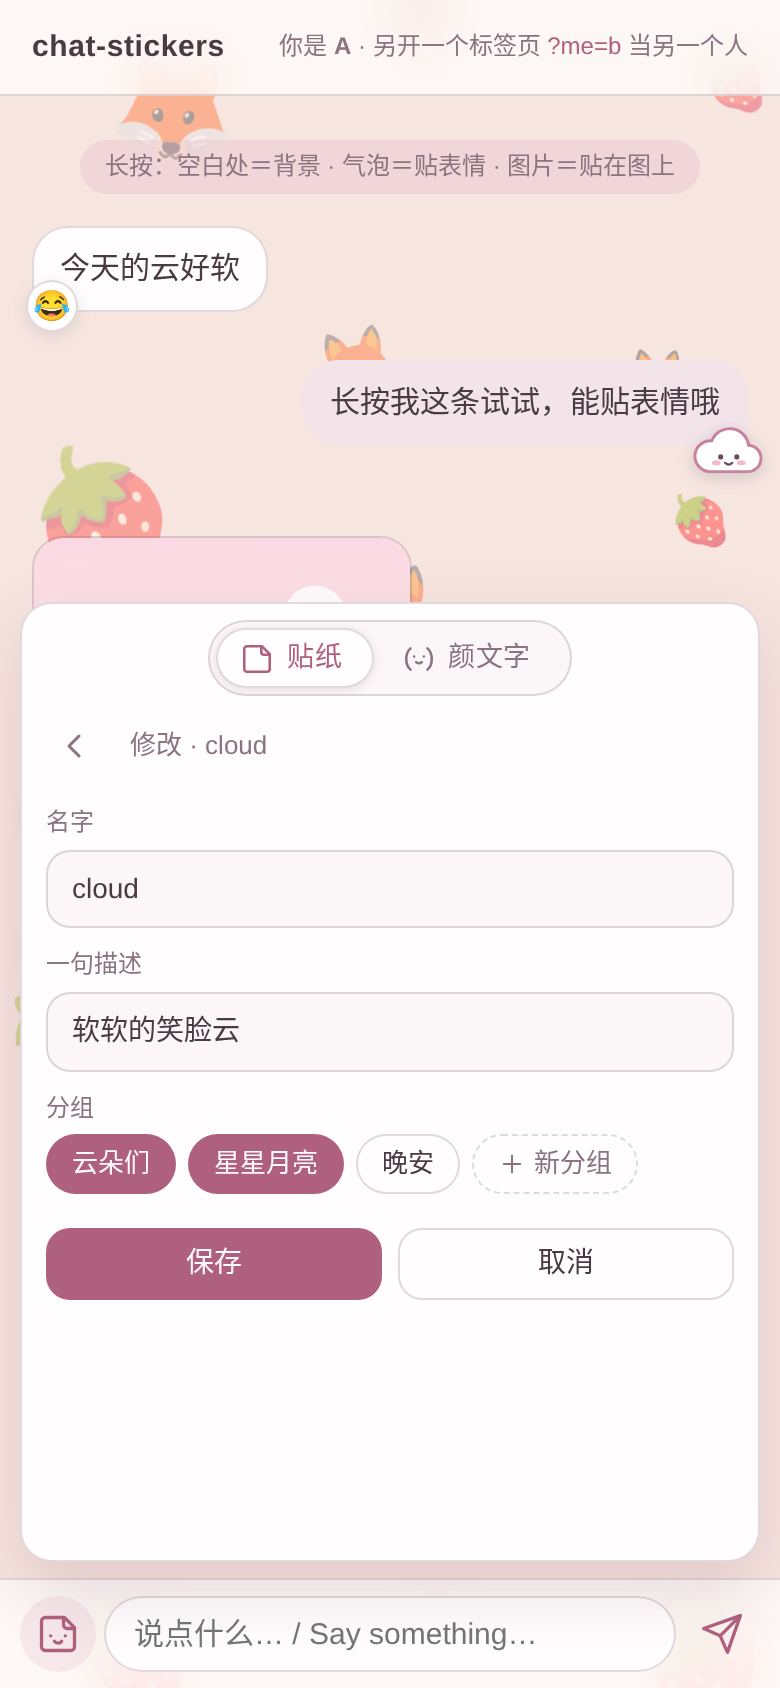
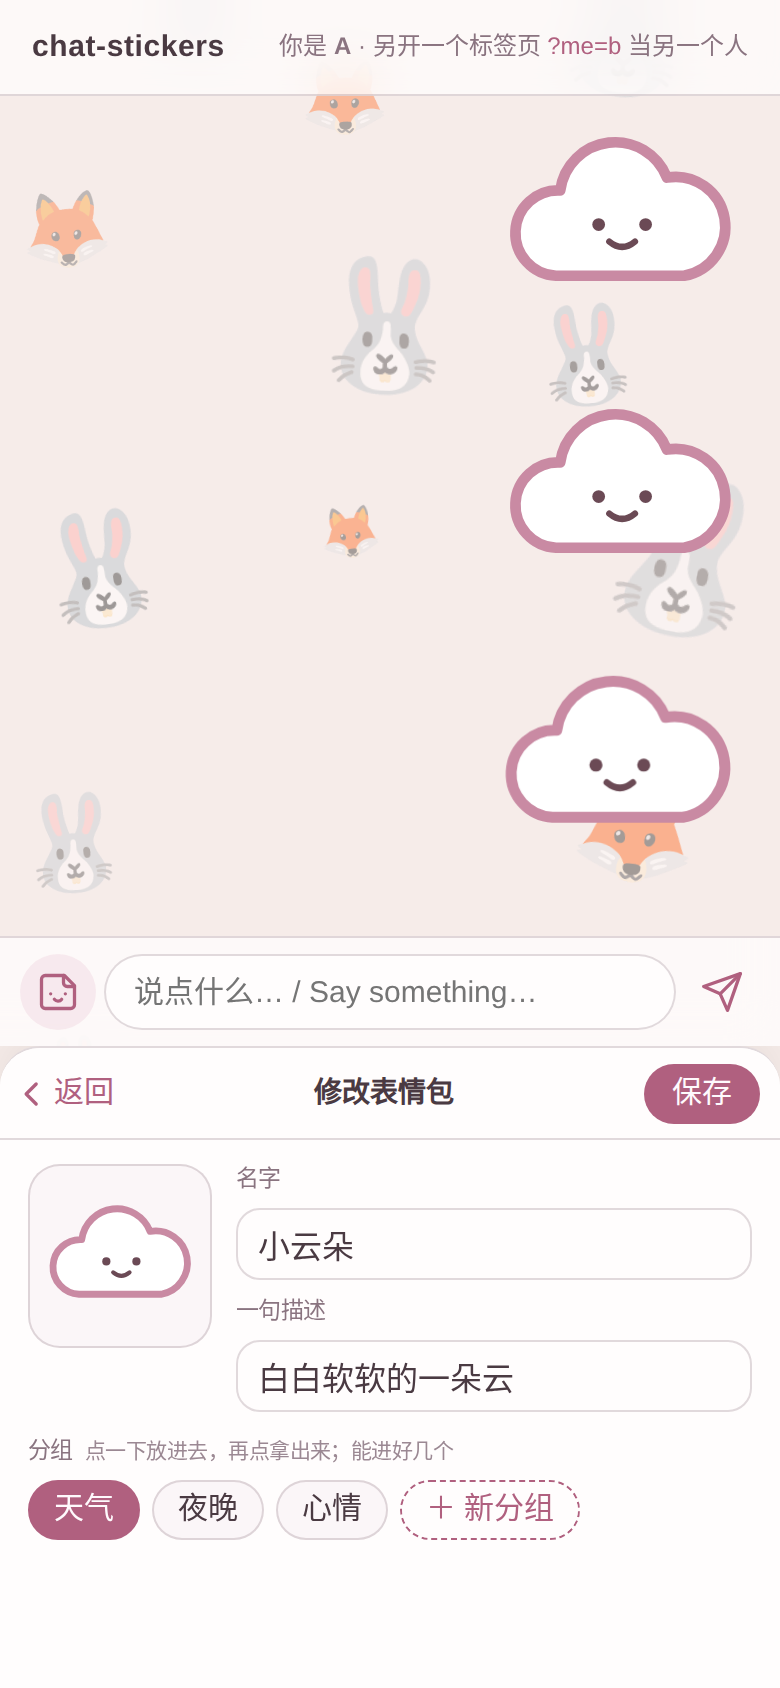
README / docs: 停靠面板和 ×N 刷屏；换截图
- README 中英各加「停靠面板（panel.mode: "deck"）」一节：玩法、选项表、返回值、--cs-deck-h，
  以及「[[sticker:名]]×N：刷屏」的 StickerRender.into 选项；三步接入改用 mode: "deck"
- 说清楚兼容：不写 mode 还是浮动抽屉，后端和 store 不用改；颜文字网页导入暂时只在浮动抽屉里
- docs/shot-stickers（面板 · 连点攒 ×3）、shot-kaomoji、shot-edit 重拍，新增 shot-spam（长按菜单 ＋ 刚刷出来的一串）；
  截图里的贴纸是拍图时临时加进 demo 的线条占位图，不进仓库
- 落地页文案和截图说明跟着改

diff --git a/docs/index.html b/docs/index.html
@@ -4,7 +4,7 @@
 <meta charset="utf-8">
 <meta name="viewport" content="width=device-width, initial-scale=1">
 <title>cute-chat-stickers · 长按哪里，就贴在哪里</title>
-<meta name="description" content="给聊天页加三样「贴」：聊天背景 emoji、长按给气泡贴表情、自己的表情包和颜文字（一个抽屉两个 tab）。零依赖，一个脚本接上就能用。">
+<meta name="description" content="给聊天页加三样「贴」：聊天背景 emoji、长按给气泡贴表情、自己的表情包和颜文字（一块停在输入框下面的面板，连点攒成 ×N 一起发）。零依赖，一个脚本接上就能用。">
 <!-- Replace https://tutooth.com/hello/cute-chat-stickers/ below once the repo name is decided. -->
 <link rel="canonical" href="https://tutooth.com/hello/cute-chat-stickers/">
 <meta property="og:type" content="website">
@@ -59,8 +59,8 @@
 <main>
   <p class="kicker">给聊天页的三样「贴」</p>
   <h1>长按哪里，就贴在哪里</h1>
-  <p class="lede">按在空白处，贴到聊天背景上；按在气泡上，贴到那条消息上；按在图片上，贴到那张图上。再加上一个抽屉两个 tab：你自己的表情包和颜文字。零依赖，一个脚本接上就能用。</p>
-  <p class="en">Long-press where you want it to stick — the background, a bubble, or a picture. Plus one drawer with two tabs: your own stickers and kaomoji. Zero dependencies.</p>
+  <p class="lede">按在空白处，贴到聊天背景上；按在气泡上，贴到那条消息上；按在图片上，贴到那张图上。再加上一块像键盘一样停在输入框下面的面板：你自己的表情包和颜文字，连点同一张攒成 ×N 一起发。零依赖，一个脚本接上就能用。</p>
+  <p class="en">Long-press where you want it to stick — the background, a bubble, or a picture. Plus a panel that docks under the composer like a keyboard: your own stickers and kaomoji, and repeat taps send one sticker ×N. Zero dependencies.</p>
   <div class="cta">
     <a class="btn primary" href="https://github.com/Anko3o/cute-chat-stickers">
       <svg viewBox="0 0 24 24" fill="none" stroke="currentColor" stroke-width="1.8" stroke-linecap="round" stroke-linejoin="round" aria-hidden="true"><path d="M15 22v-4a4.8 4.8 0 0 0-1-3.5c3 0 6-2 6-5.5.08-1.25-.27-2.48-1-3.5.28-1.15.28-2.35 0-3.5 0 0-1 0-3 1.5-2.64-.5-5.36-.5-8 0C6 2 5 2 5 2c-.3 1.15-.3 2.35 0 3.5A5.4 5.4 0 0 0 4 9c0 3.5 3 5.5 6 5.5-.39.49-.68 1.05-.85 1.65S8.93 17.38 9 18v4"/><path d="M9 18c-4.51 2-5-2-7-2"/></svg>
@@ -75,8 +75,8 @@
   <div class="shots">
     <figure><img src="shot-background.png" alt="长按空白处，两人各选一枚 emoji 撒满聊天背景" loading="lazy"><figcaption>长按空白 → 背景</figcaption></figure>
     <figure><img src="shot-reactions.png" alt="长按气泡，两行四格贴表情" loading="lazy"><figcaption>长按气泡 → 贴表情</figcaption></figure>
-    <figure><img src="shot-stickers.png" alt="一个抽屉两个 tab：贴纸" loading="lazy"><figcaption>抽屉 · 贴纸</figcaption></figure>
-    <figure><img src="shot-kaomoji.png" alt="一个抽屉两个 tab：颜文字" loading="lazy"><figcaption>抽屉 · 颜文字</figcaption></figure>
+    <figure><img src="shot-stickers.png" alt="停靠面板：贴纸页，连点同一张攒成 ×3" loading="lazy"><figcaption>面板 · 贴纸 ×N</figcaption></figure>
+    <figure><img src="shot-kaomoji.png" alt="停靠面板：颜文字页，点一条插进输入框" loading="lazy"><figcaption>面板 · 颜文字</figcaption></figure>
   </div>
 
   <h2>三步接入</h2>
@@ -93,7 +93,7 @@
   container: "#messages",
   me: { id: "a", name: "A", emoji: "🐰" }, others: [{ id: "b", name: "B", emoji: "🦊" }],
   api: "/chat-stickers",
-  panel: { button: "#drawerBtn", input: "#input", send: (t) =&gt; sendMessage(t) },
+  panel: { mode: "deck", button: "#drawerBtn", input: "#input", send: (t) =&gt; sendMessage(t) },
 });</pre></div></li>
   </ol>
 
@@ -110,7 +110,8 @@
   <h2>还有</h2>
   <div class="table-wrap"><table>
     <tbody>
-      <tr><td>一个抽屉两个 tab</td><td>一颗按钮，顶上「贴纸 | 颜文字」切换，记住上次停在哪</td></tr>
+      <tr><td>停靠面板</td><td>一颗按钮，面板从输入框下面升起：「贴纸 | 颜文字」、分组药丸、搜索、上传、长按整理都在里面；点了不收，连点同一张攒成 ×N 一起发</td></tr>
+      <tr><td>刷屏</td><td><code>[[sticker:名字]]×N</code> 叠成一张带角标，刚收到的一张张冒出来，历史的点一下再刷</td></tr>
       <tr><td>表情包库</td><td>CLI 和最小服务；稳定编号；改名字时旧名进 <code>aliases</code>，历史消息不断图；顶栏 ＝ 搜索 ＋ 添加 ＋ 更多</td></tr>
       <tr><td>颜文字</td><td>十一组内置；支持粘贴任意颜文字网页导入、同步只端新的</td></tr>
       <tr><td>分组</td><td>贴纸和颜文字同一套：药丸选分组、「＋ 新分组」原地起名；「管理分组」改名 · 排序 · 删除（条目并入未分组）</td></tr>
